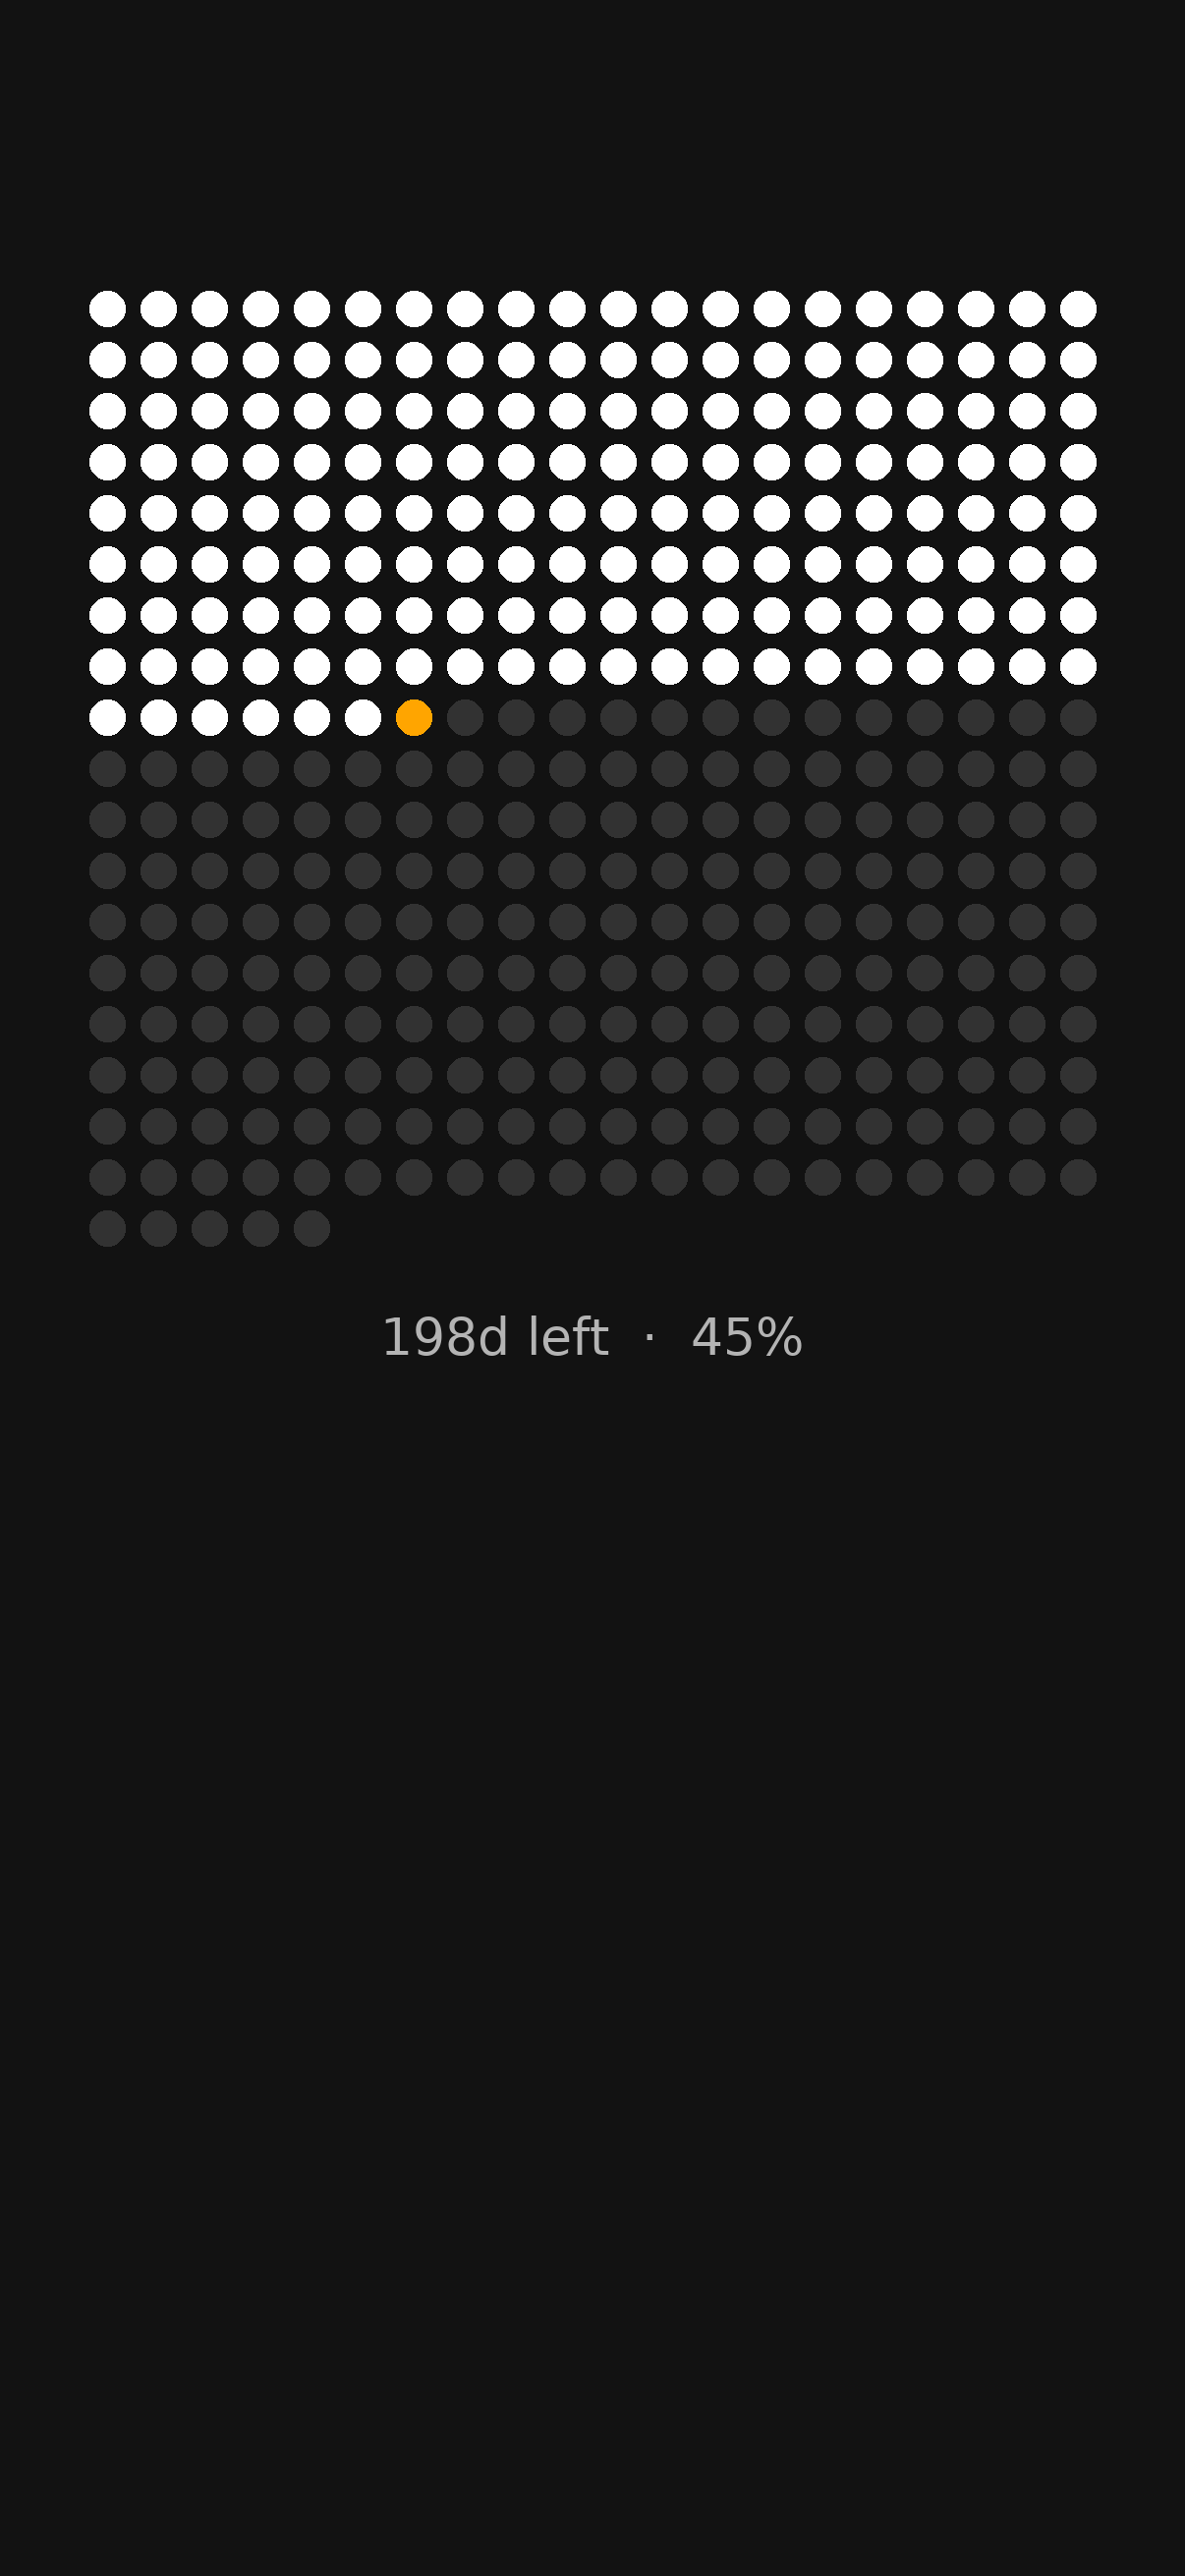
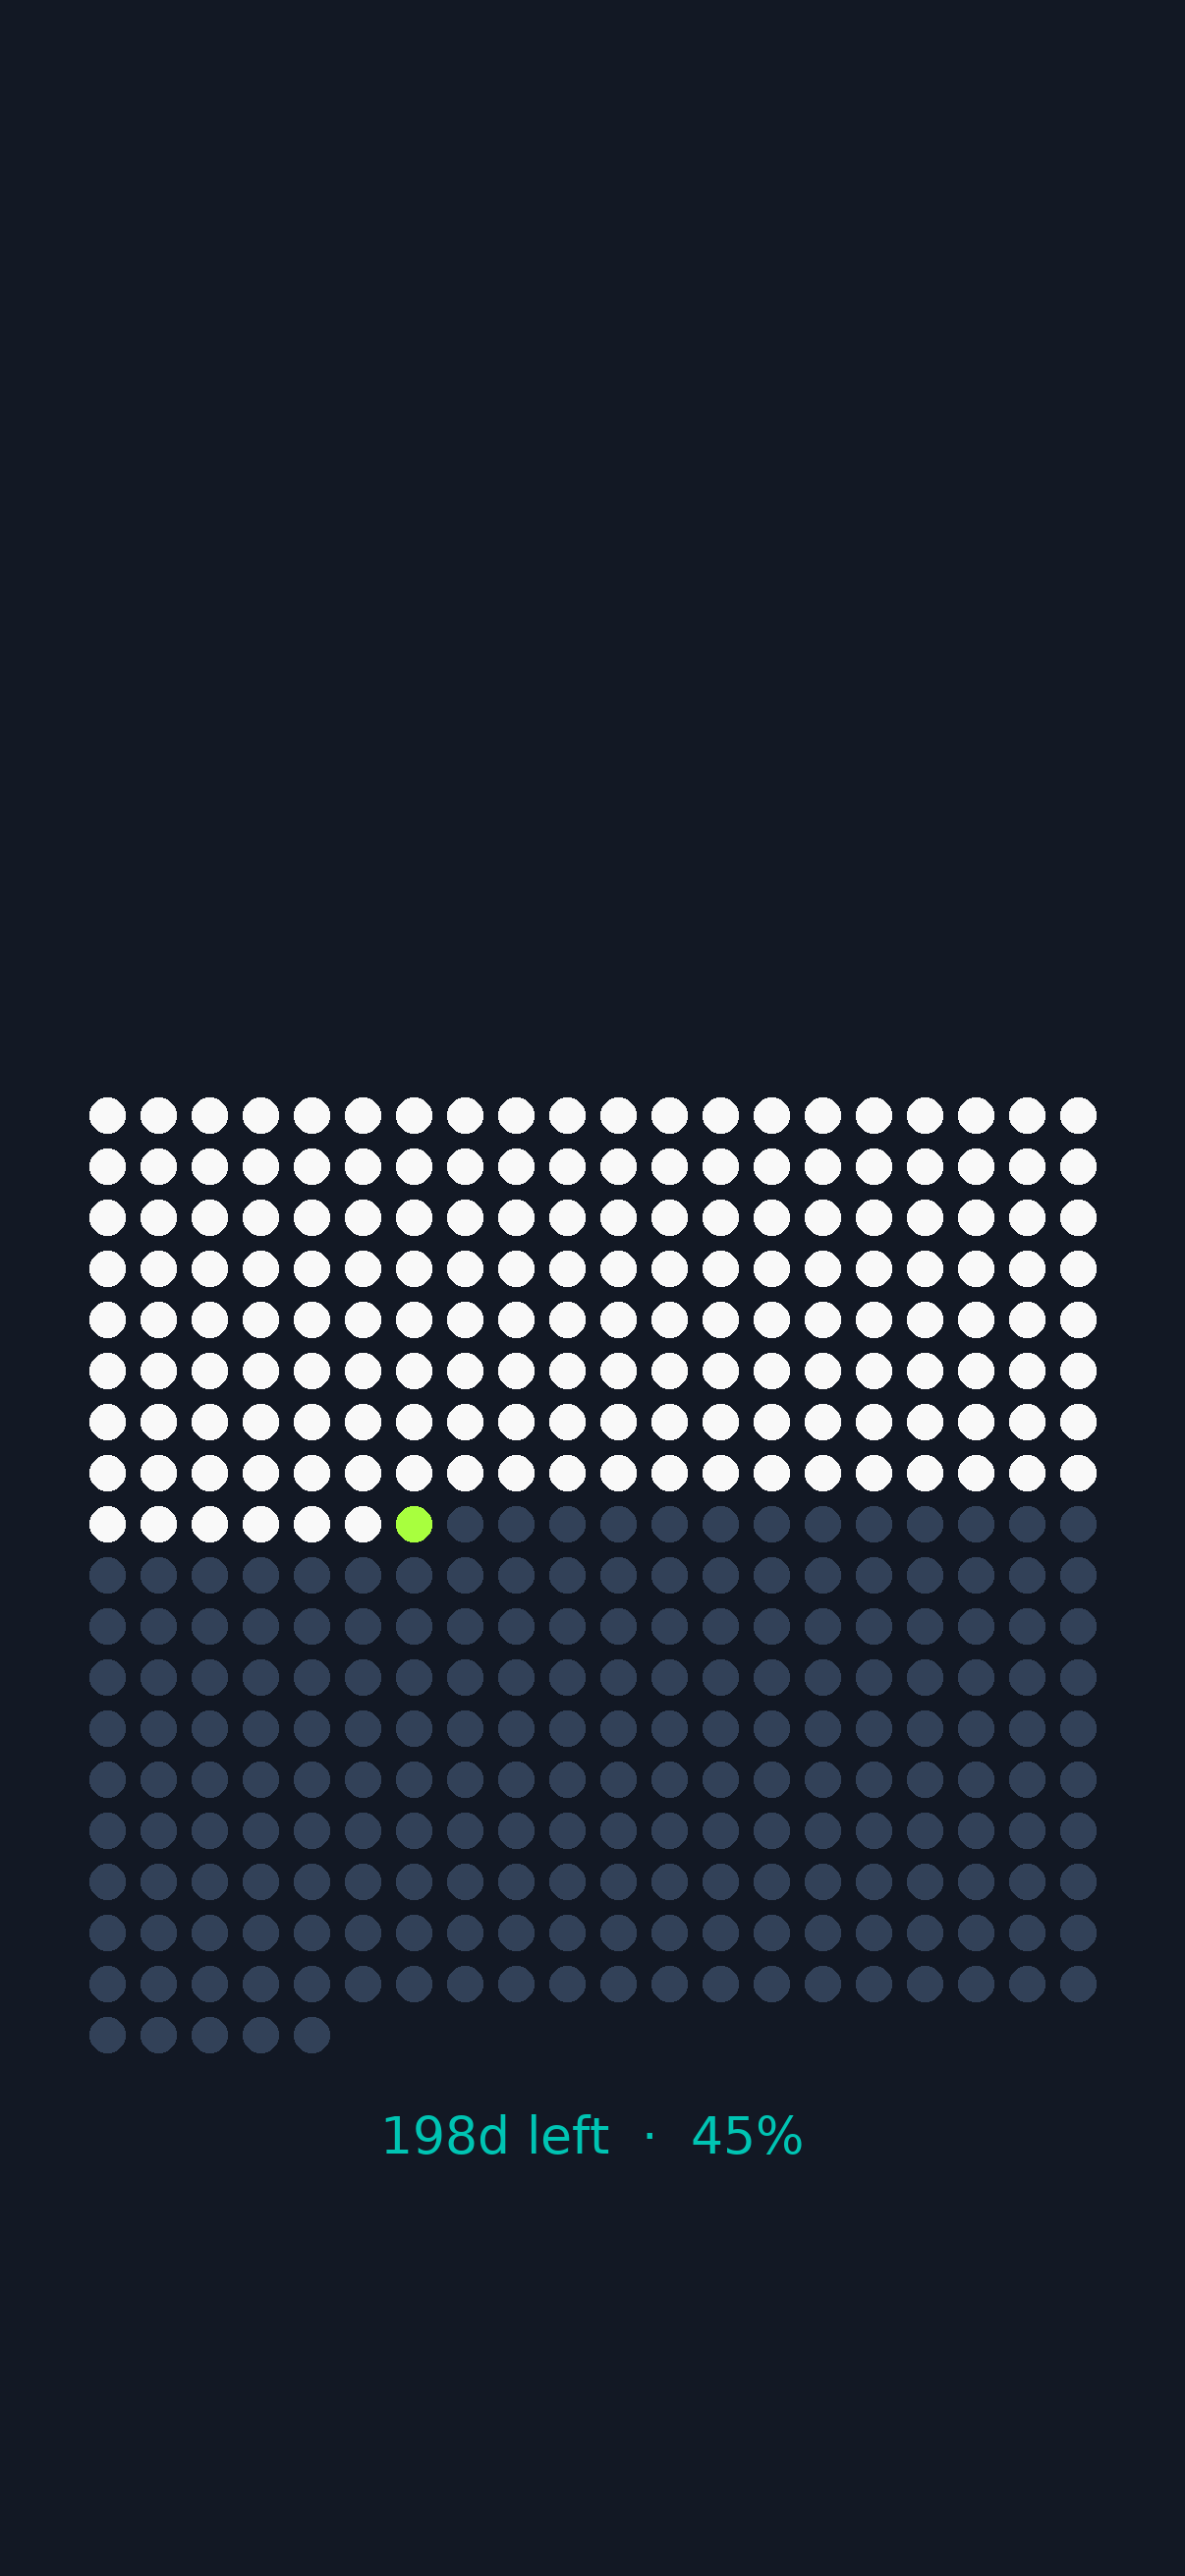
feat: update color scheme and add iPhone lock screen safe zones
Replaces the original gray palette with the branded color scheme:
Deep Charcoal background, Off-White past dots, Bright Lime today marker,
Vibrant Teal text label. Repositions the dot grid using proportional safe
zones (38% top / 11% bottom) so the iOS clock, Dynamic Island, status bar,
and bottom shortcut buttons never overlap dots or the label.

https://claude.ai/code/session_01TCBdb7fw5HZcemW4gDLYy4

Changed region(s): [[0.0614, 0.0927, 0.9511, 0.8341], [0.5829, 0.8032, 0.675, 0.8341]]

diff --git a/generate_background.py b/generate_background.py
@@ -3,16 +3,16 @@ import math
 import os
 from PIL import Image, ImageDraw, ImageFont
 
-# ── Canvas ────────────────────────────────────────────────────────────────────
+# ── Canvas (iPhone 16/17 Pro native resolution) ───────────────────────────────
 CANVAS_WIDTH  = 1206
 CANVAS_HEIGHT = 2622
 
 # ── Colors ────────────────────────────────────────────────────────────────────
-BG_COLOR    = (18, 18, 18)      # near-black background
-DOT_PAST    = (255, 255, 255)   # white  — elapsed days
-DOT_TODAY   = (255, 165, 0)     # amber  — current day
-DOT_FUTURE  = (50, 50, 50)      # dark gray — remaining days
-TEXT_COLOR  = (180, 180, 180)   # light gray label
+BG_COLOR    = (18, 24, 36)      # Deep Charcoal   #121824
+DOT_PAST    = (249, 249, 249)   # Off-White        #F9F9F9
+DOT_TODAY   = (168, 255, 62)    # Bright Lime      #A8FF3E  (the spark)
+DOT_FUTURE  = (50, 65, 88)      # dark blue-gray   (charcoal palette)
+TEXT_COLOR  = (0, 196, 179)     # Vibrant Teal     #00C4B3
 
 # ── Grid geometry ─────────────────────────────────────────────────────────────
 GRID_COLS   = 20
@@ -20,7 +20,16 @@ DOT_RADIUS  = 18    # px
 DOT_SPACING = 52    # center-to-center, horizontal and vertical
 
 # ── Text ──────────────────────────────────────────────────────────────────────
-FONT_SIZE   = 52
+FONT_SIZE = 52
+TEXT_GAP  = 72      # px between bottom of last dot row and text baseline
+
+# ── iPhone lock-screen safe zones ─────────────────────────────────────────────
+# TOP clears: Dynamic Island + status bar + date label + large clock digits
+# BOTTOM clears: torch/camera shortcut buttons + home-indicator gesture bar
+# At 3× scale (402×874 logical pts) the clock ends ~320 logical pts ≈ 960 px;
+# 38% of 2622 ≈ 996 px gives a clean margin.
+TOP_SAFE_FRAC    = 0.38   # 38% of canvas height from top
+BOTTOM_SAFE_FRAC = 0.11   # 11% of canvas height from bottom
 
 # ── Font search paths (tried in order) ────────────────────────────────────────
 FONT_PATHS = [
@@ -60,8 +69,18 @@ def generate_image(output_path=OUTPUT_PATH):
     grid_w = (GRID_COLS - 1) * DOT_SPACING
     grid_h = (rows - 1) * DOT_SPACING
 
-    origin_x = (CANVAS_WIDTH - grid_w) // 2
-    origin_y = int(CANVAS_HEIGHT * 0.12)
+    # Safe zone boundaries
+    top_safe    = int(CANVAS_HEIGHT * TOP_SAFE_FRAC)
+    bottom_safe = int(CANVAS_HEIGHT * BOTTOM_SAFE_FRAC)
+    usable_h    = CANVAS_HEIGHT - top_safe - bottom_safe
+
+    # Vertically centre the (grid + gap + text) block inside the safe zone
+    content_h = grid_h + TEXT_GAP + FONT_SIZE
+    extra     = max(0, usable_h - content_h)
+    origin_y  = top_safe + extra // 2
+
+    # Horizontally centre the grid (auto-margin exceeds 90 px each side)
+    origin_x  = (CANVAS_WIDTH - grid_w) // 2
 
     img  = Image.new("RGB", (CANVAS_WIDTH, CANVAS_HEIGHT), BG_COLOR)
     draw = ImageDraw.Draw(img)
@@ -85,18 +104,23 @@ def generate_image(output_path=OUTPUT_PATH):
             fill=color,
         )
 
-    label = f"{days_remaining}d left  ·  {pct}%"
-    font  = load_font(FONT_SIZE)
-    bbox  = draw.textbbox((0, 0), label, font=font)
+    label  = f"{days_remaining}d left  ·  {pct}%"
+    font   = load_font(FONT_SIZE)
+    bbox   = draw.textbbox((0, 0), label, font=font)
     text_w = bbox[2] - bbox[0]
     text_x = (CANVAS_WIDTH - text_w) // 2
-    text_y = origin_y + grid_h + 80
+    text_y = origin_y + grid_h + TEXT_GAP
 
     draw.text((text_x, text_y), label, fill=TEXT_COLOR, font=font)
 
-    os.makedirs(os.path.dirname(output_path), exist_ok=True)
+    os.makedirs(os.path.dirname(output_path) or ".", exist_ok=True)
     img.save(output_path, "PNG")
-    print(f"Saved {output_path}  [day {day_of_year + 1}/{days_in_year}, {days_remaining}d left, {pct}%]")
+    print(
+        f"Saved {output_path}  "
+        f"[day {day_of_year + 1}/{days_in_year}, {days_remaining}d left, {pct}%]  "
+        f"grid_y={origin_y}–{origin_y + grid_h}  text_y={text_y}  "
+        f"bottom_safe_starts={CANVAS_HEIGHT - bottom_safe}"
+    )
 
 
 if __name__ == "__main__":